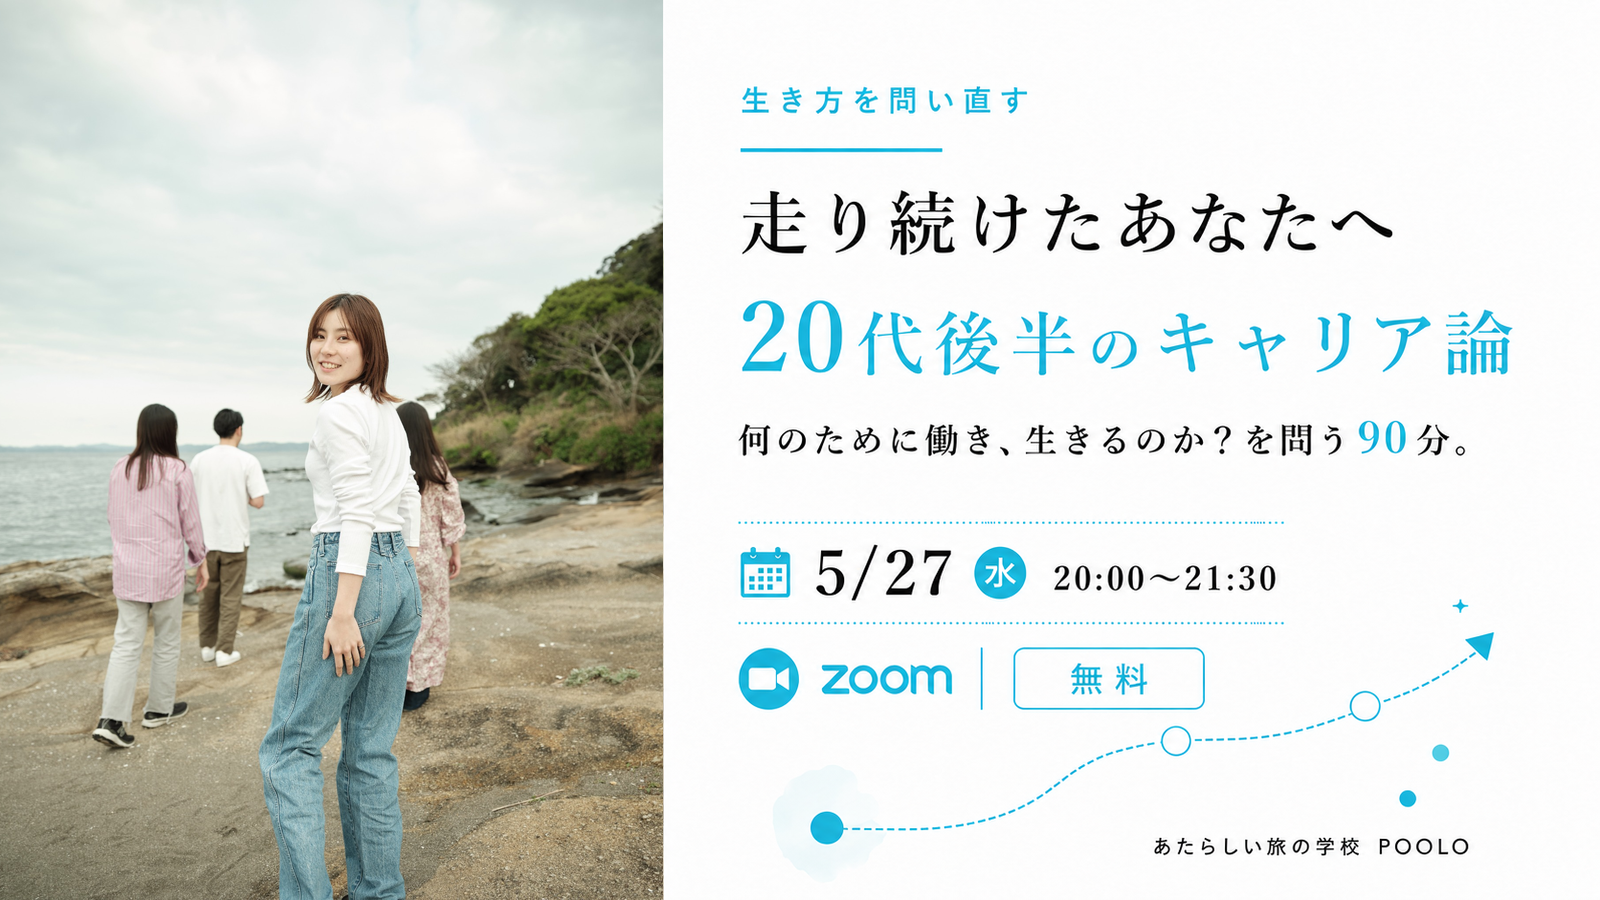
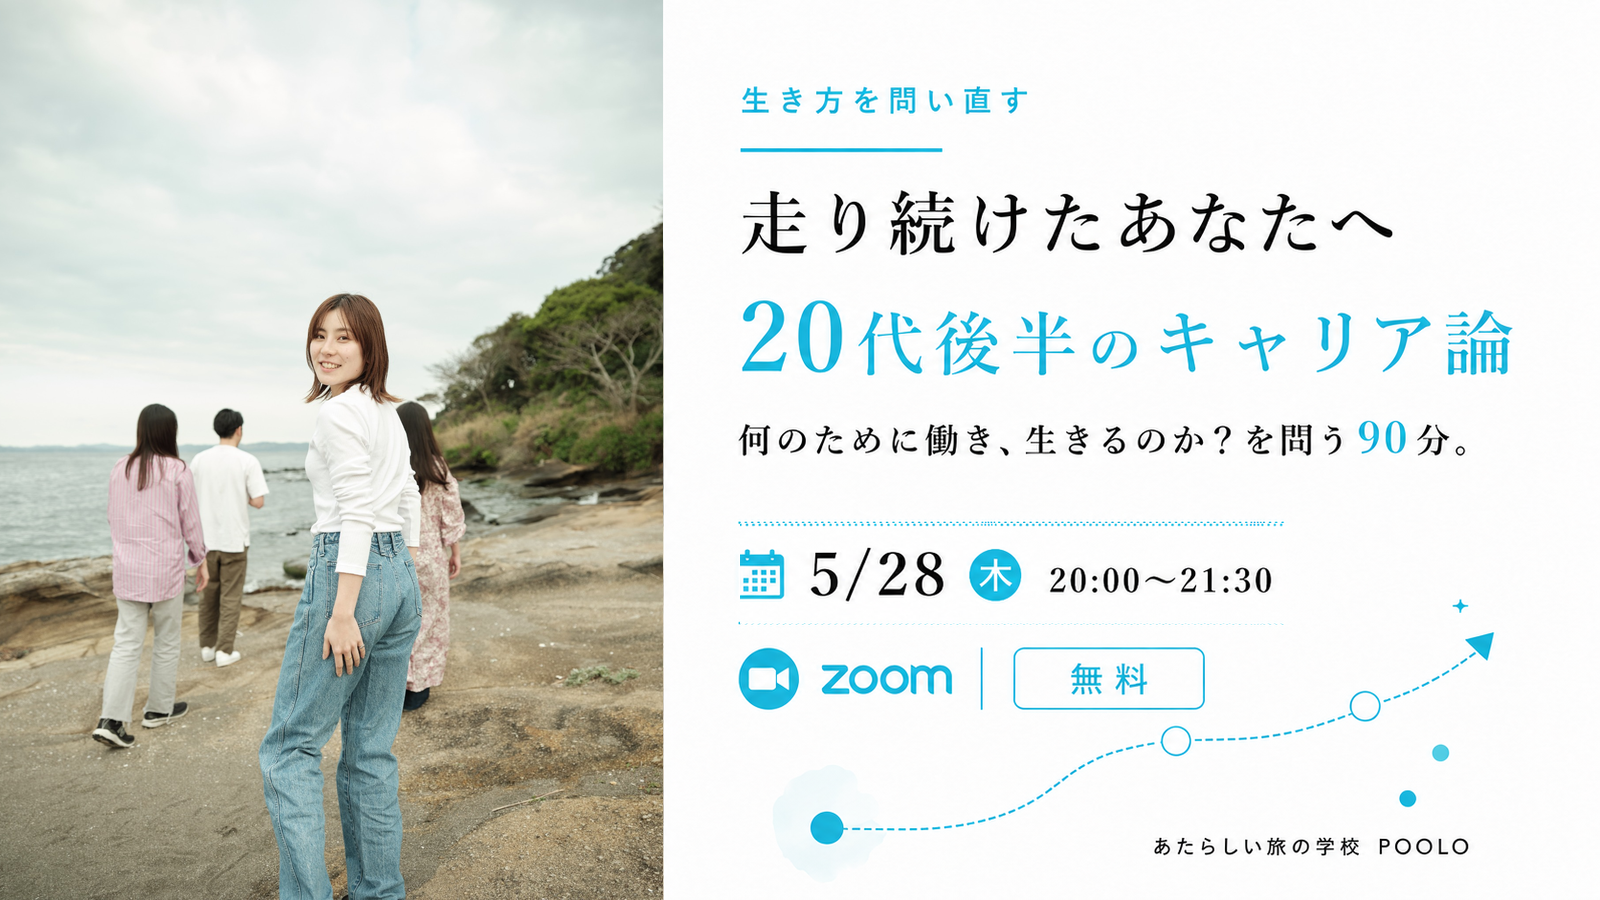
event-20s-v01-260528: 5/28(木)版に更新
- ヒーロー画像/OGP画像: 5/28版（career_event_1600x900_original_photo_crop_only_0528_exact_layout.png）に差し替え
- 日付表記6箇所: 5/27(水) → 5/28(木) に統一
  - meta description / og:description / twitter:description
  - hero-banner alt / EVENT SUMMARY / 開催概要
  - PC追従ボタン / SP固定CTA / ページサイドマーク左
- LINE LIFF URLパラメータ: lp=HpeE6B → lp=ogD81o（5箇所）

Changed region(s): [[0.4375, 0.5911, 0.8125, 0.6844]]

diff --git a/event-20s-v01-260528/index.html b/event-20s-v01-260528/index.html
@@ -11,13 +11,13 @@ j=d.createElement(s),dl=l!='dataLayer'?'&l='+l:'';j.async=true;j.src=
 <meta charset="UTF-8">
 <meta name="viewport" content="width=device-width, initial-scale=1.0">
 <title>働く意味・生きる意味を、見つけにいく90分｜20代後半の生き方シリーズvol.01</title>
-<meta name="description" content="2026年5月27日（水）20:00–21:30、Zoomオンライン。ここまで走ってきた20代後半へ。働く意味、生きる意味を、対話と問いを通じて自分のことばで見つけにいく90分です。">
+<meta name="description" content="2026年5月28日（木）20:00–21:30、Zoomオンライン。ここまで走ってきた20代後半へ。働く意味、生きる意味を、対話と問いを通じて自分のことばで見つけにいく90分です。">
 
 <!-- ===== Open Graph ===== -->
 <meta property="og:type" content="website">
 <meta property="og:url" content="https://michinorionda.github.io/poolo-life/event-20s-v01-260528/">
 <meta property="og:title" content="働く意味・生きる意味を、見つけにいく90分。｜POOLO 20s Life vol.01">
-<meta property="og:description" content="対話と、内省と、好奇心で、働く意味・生きる意味を見つけにいく90分。2026年5月27日（水）20:00–21:30、Zoomオンライン、無料・先着10名。">
+<meta property="og:description" content="対話と、内省と、好奇心で、働く意味・生きる意味を見つけにいく90分。2026年5月28日（木）20:00–21:30、Zoomオンライン、無料・先着10名。">
 <meta property="og:image" content="https://michinorionda.github.io/poolo-life/event-20s-v01-260528/images/og-thumbnail.png">
 <meta property="og:image:width" content="1600">
 <meta property="og:image:height" content="900">
@@ -27,7 +27,7 @@ j=d.createElement(s),dl=l!='dataLayer'?'&l='+l:'';j.async=true;j.src=
 <!-- ===== Twitter Card ===== -->
 <meta name="twitter:card" content="summary_large_image">
 <meta name="twitter:title" content="働く意味・生きる意味を、見つけにいく90分。｜POOLO 20s Life vol.01">
-<meta name="twitter:description" content="対話と、内省と、好奇心で、働く意味・生きる意味を見つけにいく90分。2026年5月27日（水）20:00–21:30、Zoomオンライン、無料・先着10名。">
+<meta name="twitter:description" content="対話と、内省と、好奇心で、働く意味・生きる意味を見つけにいく90分。2026年5月28日（木）20:00–21:30、Zoomオンライン、無料・先着10名。">
 <meta name="twitter:image" content="https://michinorionda.github.io/poolo-life/event-20s-v01-260528/images/og-thumbnail.png">
 
 <link rel="preconnect" href="https://fonts.googleapis.com">
@@ -1673,9 +1673,9 @@ a:hover { opacity: 0.7; }
 <noscript><iframe src="https://www.googletagmanager.com/ns.html?id=GTM-5MNNQMQ"
 height="0" width="0" style="display:none;visibility:hidden"></iframe></noscript>
 
-<a href="https://liff.line.me/2004689256-jVradzOV/landing?follow=%40801pdwhq&lp=HpeE6B&liff_id=2004689256-jVradzOV" class="float-apply" id="floatApply" target="_blank" rel="noopener">
+<a href="https://liff.line.me/2004689256-jVradzOV/landing?follow=%40801pdwhq&lp=ogD81o&liff_id=2004689256-jVradzOV" class="float-apply" id="floatApply" target="_blank" rel="noopener">
   <span class="fa-meta">
-    <span class="price">5/27 (水) 20:00〜</span>
+    <span class="price">5/28 (木) 20:00〜</span>
     <span class="seats">無料・先着10名</span>
   </span>
   <span class="fa-cta">申し込む</span>
@@ -1683,7 +1683,7 @@ height="0" width="0" style="display:none;visibility:hidden"></iframe></noscript>
 <!-- End Google Tag Manager (noscript) -->
 
 <!-- ===== Page side marks（白い余白の縦書きあしらい・wide screens only） ===== -->
-<aside class="page-side-mark is-left">2026<span class="em">·</span>5 / 27 (Wed)<span class="em">·</span>Zoom Online<span class="em">·</span>20:00 / 21:30</aside>
+<aside class="page-side-mark is-left">2026<span class="em">·</span>5 / 28 (Thu)<span class="em">·</span>Zoom Online<span class="em">·</span>20:00 / 21:30</aside>
 <aside class="page-side-mark is-right">POOLO<span class="em">·</span>20s Life<span class="em">·</span>vol.01<span class="em">·</span>働く意味・生きる意味を、自分のことばで。</aside>
 
 
@@ -1692,7 +1692,7 @@ height="0" width="0" style="display:none;visibility:hidden"></iframe></noscript>
   <a href="#top" class="header-logo"><img src="images/poolo_logo.png" alt="POOLO あたらしい旅の学校"></a>
   <div class="header-nav">
     <a href="https://tabippo.net/poolo/" class="header-nav-link" target="_blank" rel="noopener">POOLOとは？</a>
-    <a href="https://liff.line.me/2004689256-jVradzOV/landing?follow=%40801pdwhq&lp=HpeE6B&liff_id=2004689256-jVradzOV" target="_blank" rel="noopener" class="header-cta">申し込む</a>
+    <a href="https://liff.line.me/2004689256-jVradzOV/landing?follow=%40801pdwhq&lp=ogD81o&liff_id=2004689256-jVradzOV" target="_blank" rel="noopener" class="header-cta">申し込む</a>
   </div>
 </header>
 
@@ -1703,7 +1703,7 @@ height="0" width="0" style="display:none;visibility:hidden"></iframe></noscript>
      焼き込まれているため、テキストレイヤーは持たず1枚絵で表示する。
 ================================================================ -->
 <div class="article-top">
-  <img class="hero-banner" src="images/career_event_1600x900_original_photo_crop_only.png" alt="生き方を問い直す｜走り続けたあなたへ／20代後半のキャリア論。何のために働き、生きるのか？を問う90分。2026年5月27日（水）20:00–21:30、Zoom、無料。あたらしい旅の学校POOLO。">
+  <img class="hero-banner" src="images/career_event_1600x900_original_photo_crop_only.png" alt="生き方を問い直す｜走り続けたあなたへ／20代後半のキャリア論。何のために働き、生きるのか？を問う90分。2026年5月28日（木）20:00–21:30、Zoom、無料。あたらしい旅の学校POOLO。">
 </div>
 
 
@@ -1713,7 +1713,7 @@ height="0" width="0" style="display:none;visibility:hidden"></iframe></noscript>
     <dl class="event-summary-list">
       <div class="event-summary-row">
         <dt>日時</dt>
-        <dd>2026年5月27日（水）20:00〜21:30</dd>
+        <dd>2026年5月28日（木）20:00〜21:30</dd>
       </div>
       <div class="event-summary-row">
         <dt>形式</dt>
@@ -1900,7 +1900,7 @@ height="0" width="0" style="display:none;visibility:hidden"></iframe></noscript>
 <!-- ===== MID CTA ===== -->
 <section class="cta-mid">
   <p class="cta-mid-title">先着10名・参加無料。<br class="sp-br">気になった方は、お早めに。</p>
-  <a href="https://liff.line.me/2004689256-jVradzOV/landing?follow=%40801pdwhq&lp=HpeE6B&liff_id=2004689256-jVradzOV" target="_blank" rel="noopener" class="btn btn-accent">イベントに申し込む</a>
+  <a href="https://liff.line.me/2004689256-jVradzOV/landing?follow=%40801pdwhq&lp=ogD81o&liff_id=2004689256-jVradzOV" target="_blank" rel="noopener" class="btn btn-accent">イベントに申し込む</a>
   <div class="cta-mid-note">＊LINE公式アカウントへ遷移します</div>
 </section>
 
@@ -1953,7 +1953,7 @@ height="0" width="0" style="display:none;visibility:hidden"></iframe></noscript>
     <table class="details-table">
       <tr>
         <th>日時</th>
-        <td>2026年5月27日（水）20:00–21:30</td>
+        <td>2026年5月28日（木）20:00–21:30</td>
       </tr>
       <tr>
         <th>形式</th>
@@ -2021,16 +2021,16 @@ height="0" width="0" style="display:none;visibility:hidden"></iframe></noscript>
 <section class="cta" id="apply-cta">
   <h2 class="cta-title">働く意味・生きる意味を、<br class="sp-br">いちど自分のことばで描いてみませんか。</h2>
   <p class="cta-text">お申込みは、POOLO公式LINEからお願いしています。友だち追加後、メニューより簡単にお手続きいただけます。</p>
-  <a href="https://liff.line.me/2004689256-jVradzOV/landing?follow=%40801pdwhq&lp=HpeE6B&liff_id=2004689256-jVradzOV" target="_blank" rel="noopener" class="btn btn-accent">イベントに申し込む</a>
+  <a href="https://liff.line.me/2004689256-jVradzOV/landing?follow=%40801pdwhq&lp=ogD81o&liff_id=2004689256-jVradzOV" target="_blank" rel="noopener" class="btn btn-accent">イベントに申し込む</a>
   <div class="cta-note">＊LINE公式アカウントへ遷移します</div>
 </section>
 
 
 <!-- ===== SP FIXED BOTTOM CTA ===== -->
-<a href="https://liff.line.me/2004689256-jVradzOV/landing?follow=%40801pdwhq&lp=HpeE6B&liff_id=2004689256-jVradzOV" target="_blank" rel="noopener" class="sp-fixed-cta">
+<a href="https://liff.line.me/2004689256-jVradzOV/landing?follow=%40801pdwhq&lp=ogD81o&liff_id=2004689256-jVradzOV" target="_blank" rel="noopener" class="sp-fixed-cta">
   <div class="sp-fixed-cta-meta">
     <span class="main">無料・先着10名</span>
-    <span class="sub">5/27(水) 20:00〜</span>
+    <span class="sub">5/28(木) 20:00〜</span>
   </div>
   <span class="sp-fixed-cta-btn">申し込む</span>
 </a>